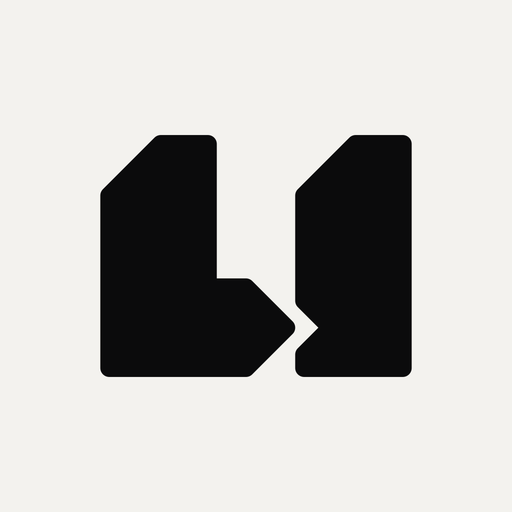
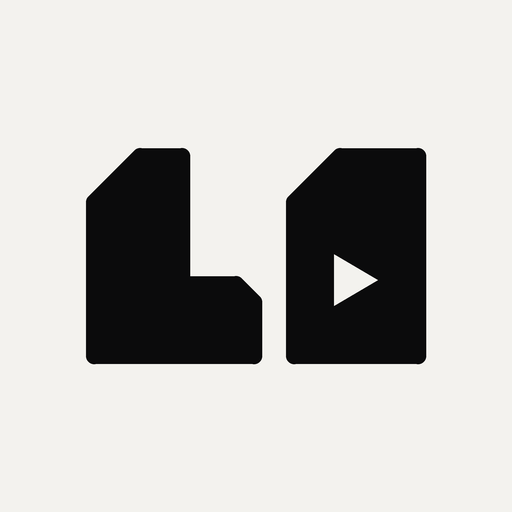
New mark: play-button window cut through the second letter, with the meaning written up in BRAND.md (earlier versions kept in public/brand/v1 and v2)

diff --git a/BRAND.md b/BRAND.md
@@ -1,0 +1,31 @@
+# The logoless mark
+
+Files are in `public/brand/` (`v1`, `v2` hold the earlier versions).
+
+## What it means
+
+The mark is two letters, **L** and **l**: "logo-less". Every part of it carries an idea.
+
+1. **The play button cut out of the second letter.** logoless is the place where views have value, with no logo in the way. A logo would normally sit in that space. Here the space is empty, and the thing left in it is the clip: a play button, punched all the way through so you can see the page behind it. "Less" is literally the hole.
+2. **The L's foot points at it.** The top edge of the L's foot lines up with the middle of the play button. The foot is the path a clip takes: from the person who made it, to the views it earns. Its clipped end is an arrow in miniature.
+3. **Equal heights.** Both letters stand at exactly the same height, on the same baseline. Clippers, brands and viewers are treated as equals: nobody's name is bigger than anyone else's.
+4. **Clipped corners.** Both letters have their top-left corner cut at exactly 45 degrees, the way a clip is trimmed. The cut is the same angle everywhere in the mark, including the end of the foot.
+5. **The gap.** A narrow channel separates the two letters. It is the "less" between "logo" and "less", and it keeps the foot and the card from touching.
+
+## Rules
+
+- Colours: `#f3f2ee` (paper) on `#0b0b0c` (ink). The light version swaps them. A single red `#ff2a2a` may replace paper for promotions.
+- Never stretch, outline, add shadows or a glow. Never recolour the play window: it must always show whatever is behind the mark.
+- Keep clear space around the mark of at least the width of the L's stem.
+- For tiny sizes (favicons) use `favicon-*.png`, which are scaled up inside the square.
+
+## Files
+
+| File | Use |
+| --- | --- |
+| `app-icon-1024.png`, `-512`, `-192` | App icons, web app manifest, store listings |
+| `apple-touch-icon.png` | iPhone home screen (180px) |
+| `app-icon-light-512.png` / `app-icon-light.svg` | Light background version |
+| `logo-mark-white.png`, `logo-mark-black.png` | Transparent mark, 1024px |
+| `logo-mark.svg`, `logo-mark-dark.svg` | Vector mark |
+| `favicon.ico`, `favicon-32.png`, `favicon-16.png` | Browser tab |
